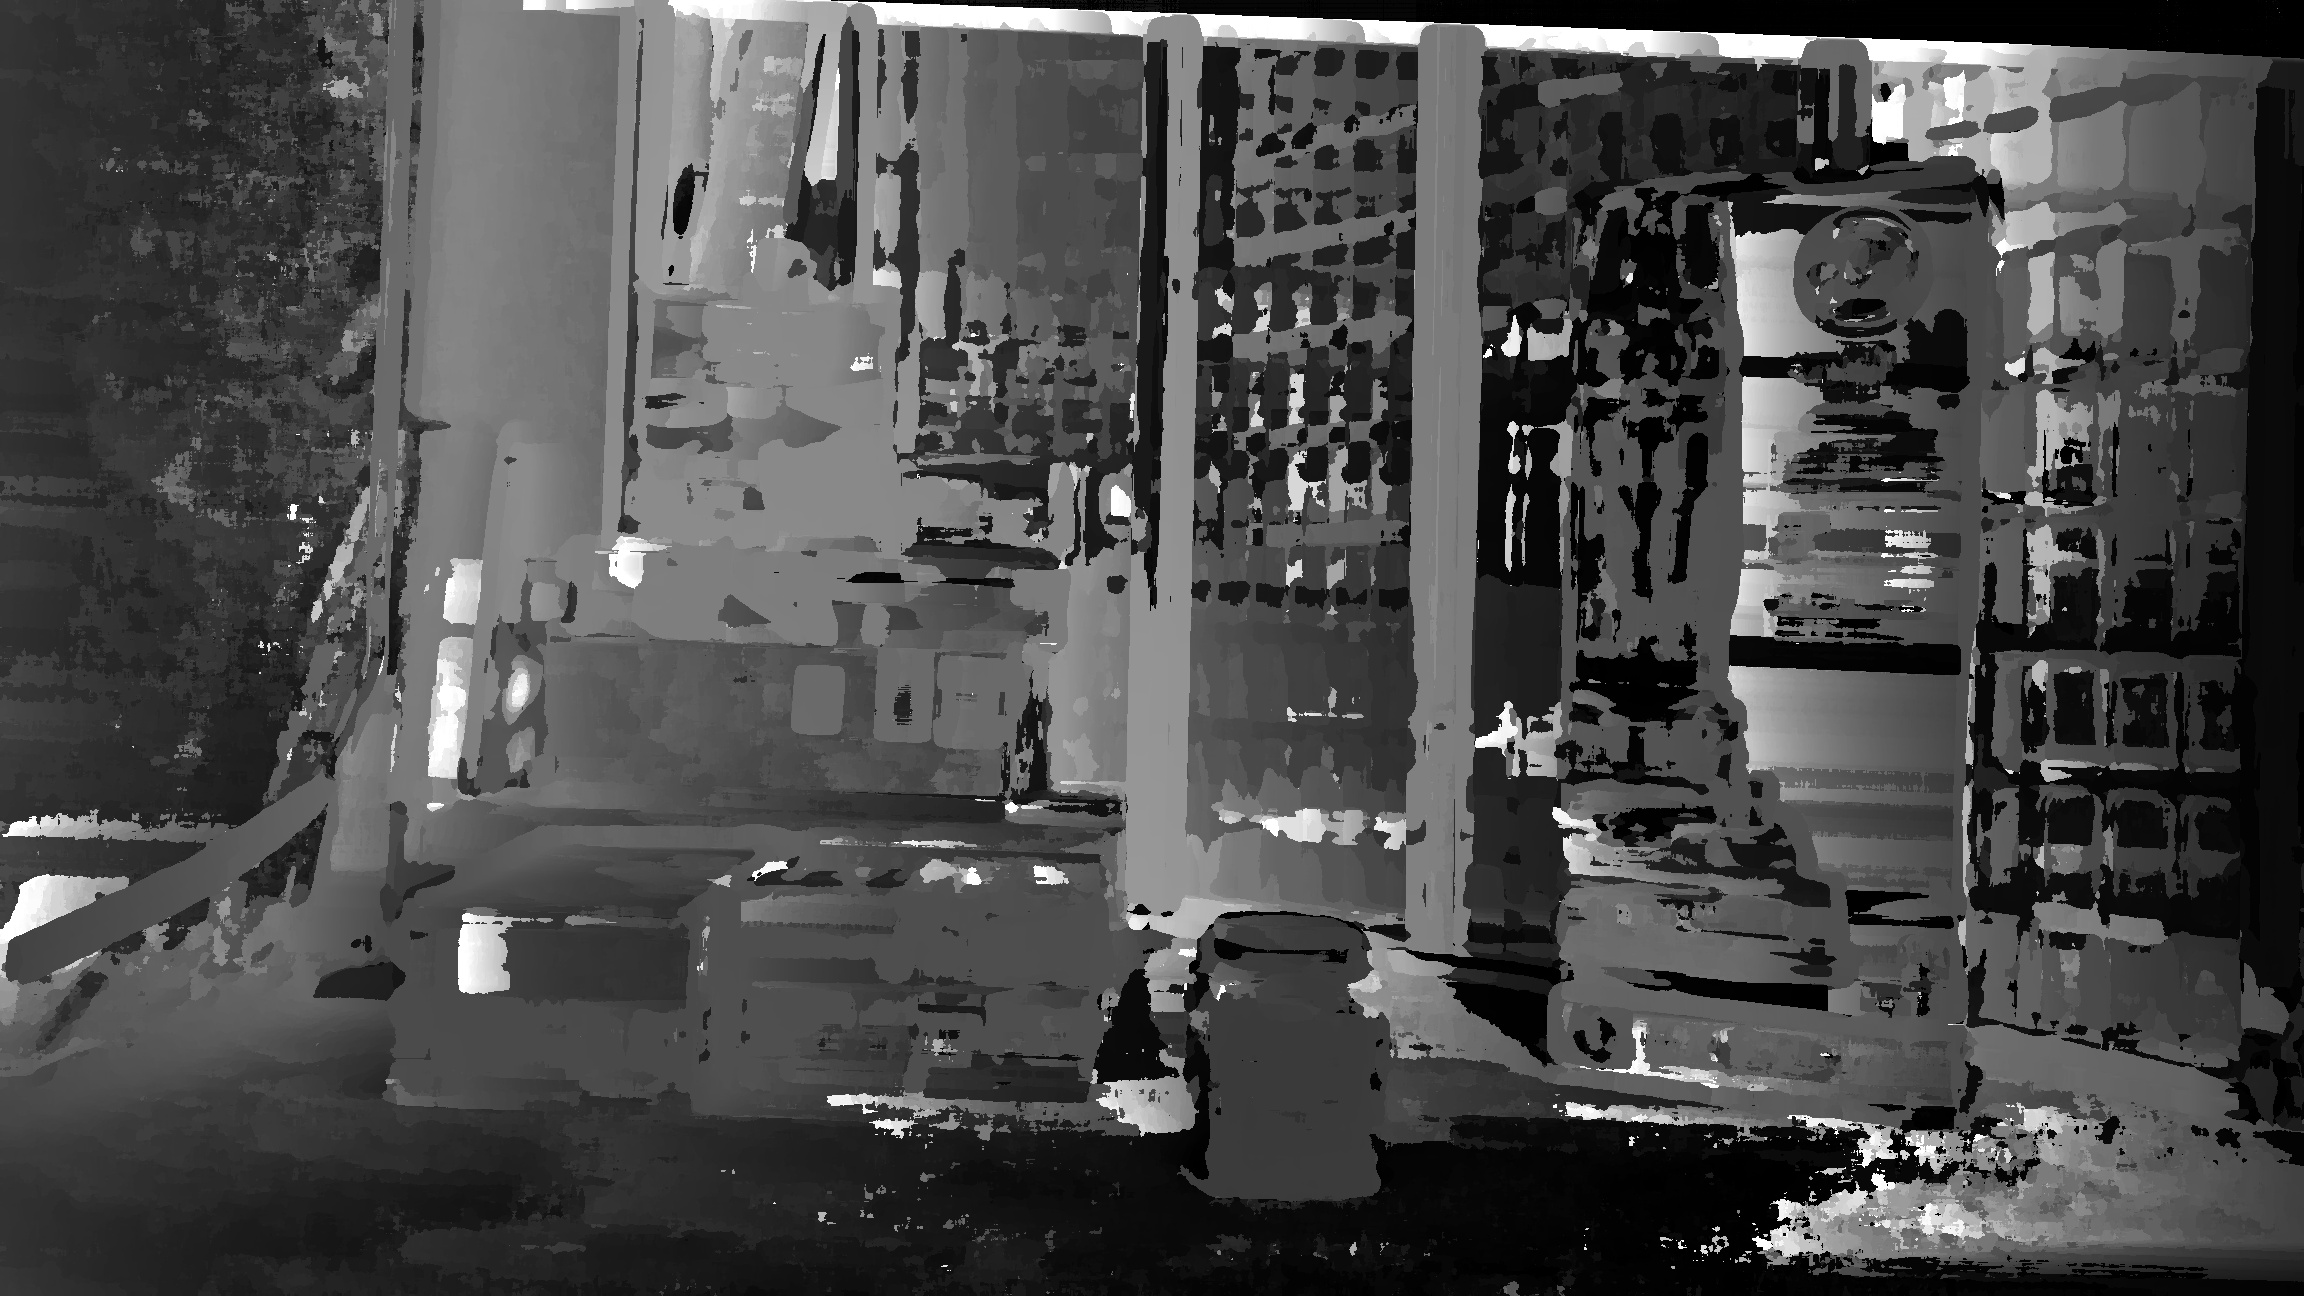
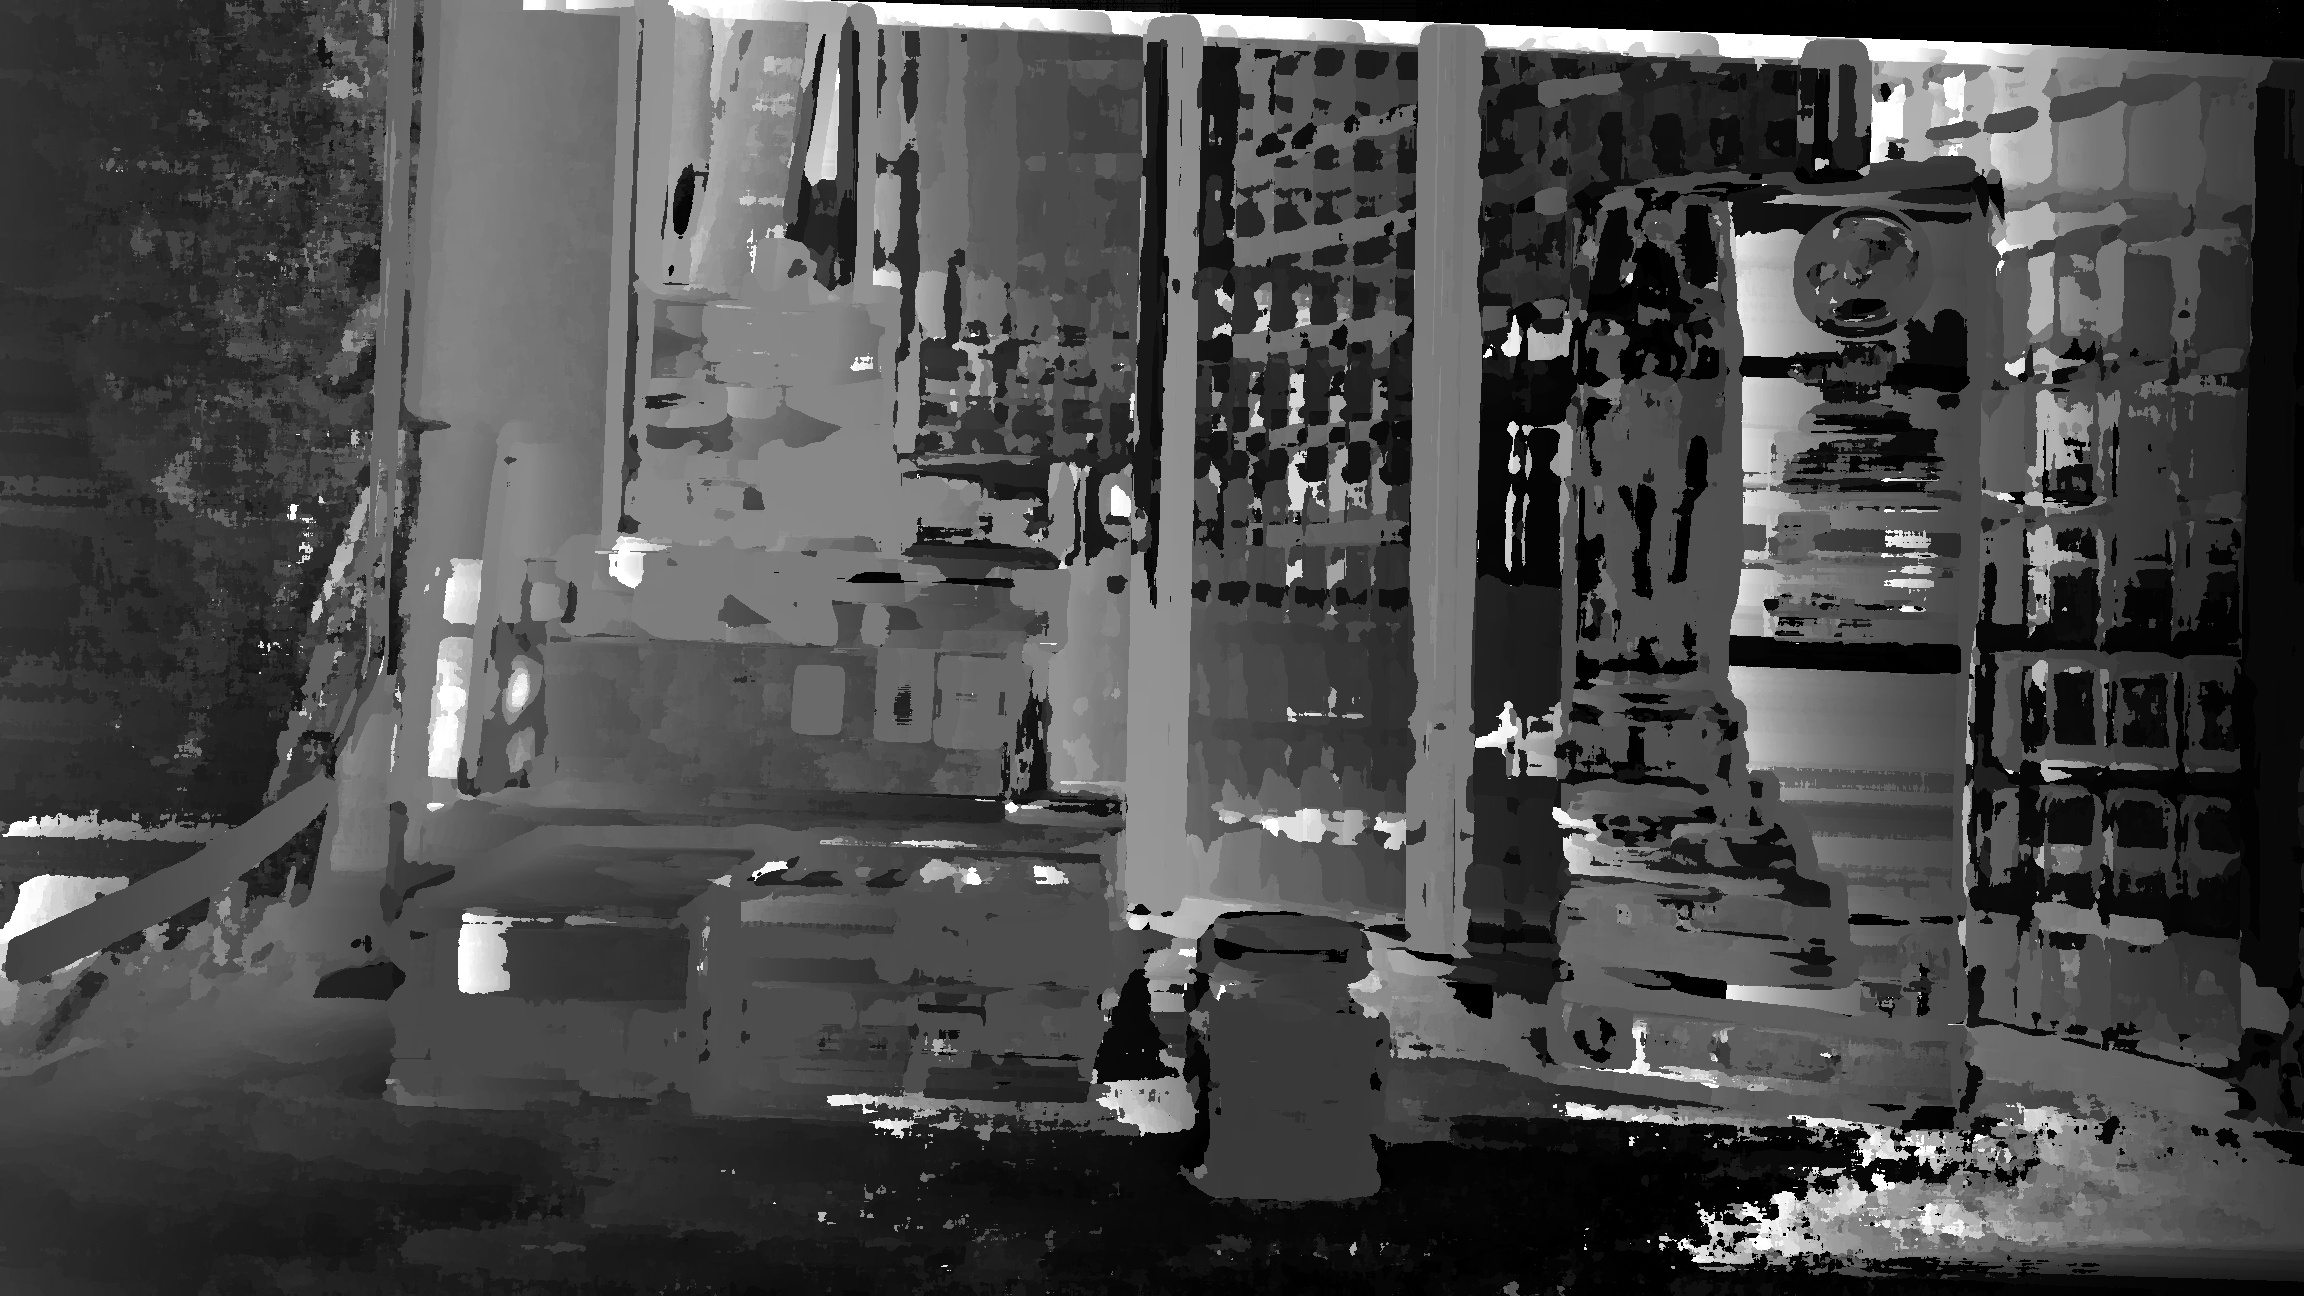
Merge remote-tracking branch 'origin/main' into main
# Conflicts:
#	PlaneSweeping.cpp

diff --git a/CalculateRT.cpp b/CalculateRT.cpp
@@ -6,9 +6,9 @@
 
 void CalculateRT::ReadImageandParam() {
 
-    left = cv::imread("../kitti/left.png");
-    right = cv::imread("../kitti/right.png");
-    cv::FileStorage fs("../calib_param_kitti.yml", cv::FileStorage::READ);
+    left = cv::imread("../data/DSC_0341.JPG");
+    right = cv::imread("../data/DSC_0342.JPG");
+    cv::FileStorage fs("../calib_param.yml", cv::FileStorage::READ);
     fs["camera_matrix"] >> K;
     fs["distortion_coefficients"] >> distCoeffs;
 }
@@ -68,6 +68,10 @@ void CalculateRT::CalculateRnt() {
         sel_points_right = realPointsRight;
     }
     E = cv::findEssentialMat(sel_points_left, sel_points_right, K);
+    std::cout<<sel_points_left.size()<<std::endl;
+//    for(int i=0; i<sel_points_left.size(); i++){
+//        std::cout<<sel_points_left[i].x<<" "<<sel_points_left[i].y<<std::endl;
+//    }
 
     cv::recoverPose(E, sel_points_left, sel_points_right, K, R, t);
 }

diff --git a/PlaneSweeping.cpp b/PlaneSweeping.cpp
@@ -23,7 +23,7 @@ void PlaneSweeping::EstimateDepth() {
     cv::Mat gray_left, gray_right;
     cv::cvtColor(left, gray_left, cv::COLOR_BGR2GRAY);
     cv::cvtColor(right, gray_right, cv::COLOR_BGR2GRAY);
-    for(int i = 700; i>0; i--){
+    for(int i = 1400; i>0; i--){
         std::cout<<"Planing "<<i<<std::endl;
         double d = (K.at<double>(0,0) + K.at<double>(1, 1))/2/i;
         std::cout<<"Planing depth "<<d<<std::endl;
@@ -55,6 +55,6 @@ void PlaneSweeping::EstimateDepth() {
     depth.convertTo(depth, CV_8UC1, 255.0 / (max - min),
                     -min * 255.0 / (max - min));
     //cv::imshow("img", depth);
-    cv::imwrite("../depthkitti.jpg", depth);
+    cv::imwrite("../depth.jpg", depth);
 }
 

diff --git a/main.cpp b/main.cpp
@@ -1,10 +1,18 @@
 #include "CalculateRT.h"
 #include "PlaneSweeping.h"
+#include <chrono>
 
 int main() {
+    std::chrono::steady_clock::time_point t1 = std::chrono::steady_clock::now();
     CalculateRT CRT;
     CRT.run();
     PlaneSweeping PS;
     PS.LoadInformation(CRT.Getleft(), CRT.Getright(), CRT.GetK(), CRT.GetR(), CRT.Gett());
+    //std::cout<<CRT.GetR()<<std::endl;
     PS.EstimateDepth();
+    std::chrono::steady_clock::time_point t2 = std::chrono::steady_clock::now();
+
+    std::chrono::duration<double> time_used = std::chrono::duration_cast<std::chrono::duration<double>>(t2-t1);
+    std::cout<<time_used.count()<<" second."<<std::endl;
+
 }
